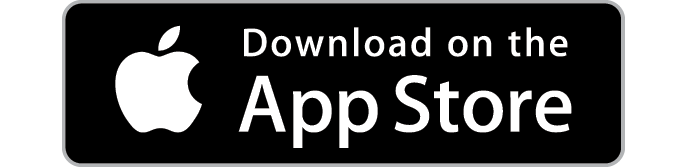
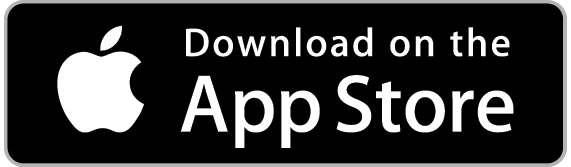
- Fix app store link button spacing.

diff --git a/TheRandomNumberGenerator.html b/TheRandomNumberGenerator.html
@@ -132,7 +132,7 @@ Features:
 </div>
 <div class="container-fluid bg-1 text-center">
 <a href="https://apps.apple.com/us/app/the-random-number-generator/id611762447">
-  <img src="AppStoreBadge.png" alt="App Store Badge" style="width:231px;height:56px;">
+  <img src="AppStoreBadge.png" alt="App Store Badge" style="width:191px;height:56px;">
 </a>
 <a href="https://apps.apple.com/us/app/the-random-number-generator/id611762447">
   <img src="MacAppStoreBadge.png" alt="Mac App Store Badge" style="width:220px;height:56px;">

diff --git a/O&X.html b/O&X.html
@@ -115,7 +115,7 @@ Features:
 </div>
 <div class="container-fluid bg-1 text-center">
 <a href="https://apps.apple.com/us/app/o-x-noughts-and-crosses/id615701215">
-  <img src="AppStoreBadge.png" alt="App Store Badge" style="width:229px;height:56px;">
+  <img src="AppStoreBadge.png" alt="App Store Badge" style="width:191px;height:56px;">
 </a>
 <a href="https://apps.apple.com/us/app/o-x-noughts-and-crosses/id615701215">
   <img src="MacAppStoreBadge.png" alt="Mac App Store Badge" style="width:220px;height:56px;">

diff --git a/UltimateWordSearch.html b/UltimateWordSearch.html
@@ -128,7 +128,7 @@ Features:
 </div>
 <div class="container-fluid bg-1 text-center">
 <a href="https://apps.apple.com/us/app/ultimate-word-search/id1560952275">
-  <img src="AppStoreBadge.png" alt="App Store Badge" style="width:229px;height:56px;">
+  <img src="AppStoreBadge.png" alt="App Store Badge" style="width:191px;height:56px;">
 </a>
 <a href="https://apps.apple.com/us/app/ultimate-word-search/id1560952275">
   <img src="MacAppStoreBadge.png" alt="Mac App Store Badge" style="width:220px;height:56px;">

diff --git a/TheDice.html b/TheDice.html
@@ -117,7 +117,7 @@ Features:
 </div>
 <div class="container-fluid bg-1 text-center">
 <a href="https://apps.apple.com/us/app/the-dice-roll-random-numbers/id845380995">
-  <img src="AppStoreBadge.png" alt="App Store Badge" style="width:229px;height:56px;">
+  <img src="AppStoreBadge.png" alt="App Store Badge" style="width:191px;height:56px;">
 </a>
 <a href="https://apps.apple.com/us/app/the-dice/id1436436031">
   <img src="MacAppStoreBadge.png" alt="Mac App Store Badge" style="width:220px;height:56px;">

diff --git a/BugFall.html b/BugFall.html
@@ -121,7 +121,7 @@ ga('send', 'pageview');
 </div>
 <div class="container-fluid bg-1 text-center">
 <a href="https://apps.apple.com/us/app/bugfall/id960354577">
-  <img src="AppStoreBadge.png" alt="App Store Badge" style="width:229px;height:56px;">
+  <img src="AppStoreBadge.png" alt="App Store Badge" style="width:191px;height:56px;">
 </a>
 <a href="https://apps.apple.com/us/app/bugfall/id960354577">
   <img src="MacAppStoreBadge.png" alt="Mac App Store Badge" style="width:220px;height:56px;">

diff --git a/UltimateHangman.html b/UltimateHangman.html
@@ -124,7 +124,7 @@ Features:
 </div>
 <div class="container-fluid bg-1 text-center">
 <a href="https://apps.apple.com/gb/app/id1604274636">
-  <img src="AppStoreBadge.png" alt="App Store Badge" style="width:229px;height:56px;">
+  <img src="AppStoreBadge.png" alt="App Store Badge" style="width:191px;height:56px;">
 </a>
 <a href="https://apps.apple.com/gb/app/id1604274636">
   <img src="MacAppStoreBadge.png" alt="Mac App Store Badge" style="width:220px;height:56px;">

diff --git a/ConnectionOfFour.html b/ConnectionOfFour.html
@@ -115,7 +115,7 @@ Features:
 </div>
 <div class="container-fluid bg-1 text-center">
 <a href="https://apps.apple.com/us/app/connection-of-four-4-in-a-row/id657749303">
-  <img src="AppStoreBadge.png" alt="App Store Badge" style="width:229px;height:56px;">
+  <img src="AppStoreBadge.png" alt="App Store Badge" style="width:191px;height:56px;">
 </a>
 </br>
 </br></br></br></br>

diff --git a/MisereO&X.html b/MisereO&X.html
@@ -116,7 +116,7 @@ Features:
 </div>
 <div class="container-fluid bg-1 text-center">
 <a href="https://apps.apple.com/us/app/misere-o-x-avoidance-tactics/id1526703568">
-  <img src="AppStoreBadge.png" alt="App Store Badge" style="width:229px;height:56px;">
+  <img src="AppStoreBadge.png" alt="App Store Badge" style="width:191px;height:56px;">
 </a>
 </br>
 </br></br></br></br>

diff --git a/Reversi.html b/Reversi.html
@@ -115,7 +115,7 @@ Features:
 </div>
 <div class="container-fluid bg-1 text-center">
 <a href="https://apps.apple.com/us/app/reversi-othello/id713109887">
-  <img src="AppStoreBadge.png" alt="App Store Badge" style="width:229px;height:56px;">
+  <img src="AppStoreBadge.png" alt="App Store Badge" style="width:191px;height:56px;">
 </a>
 </br>
 </br></br></br></br>
